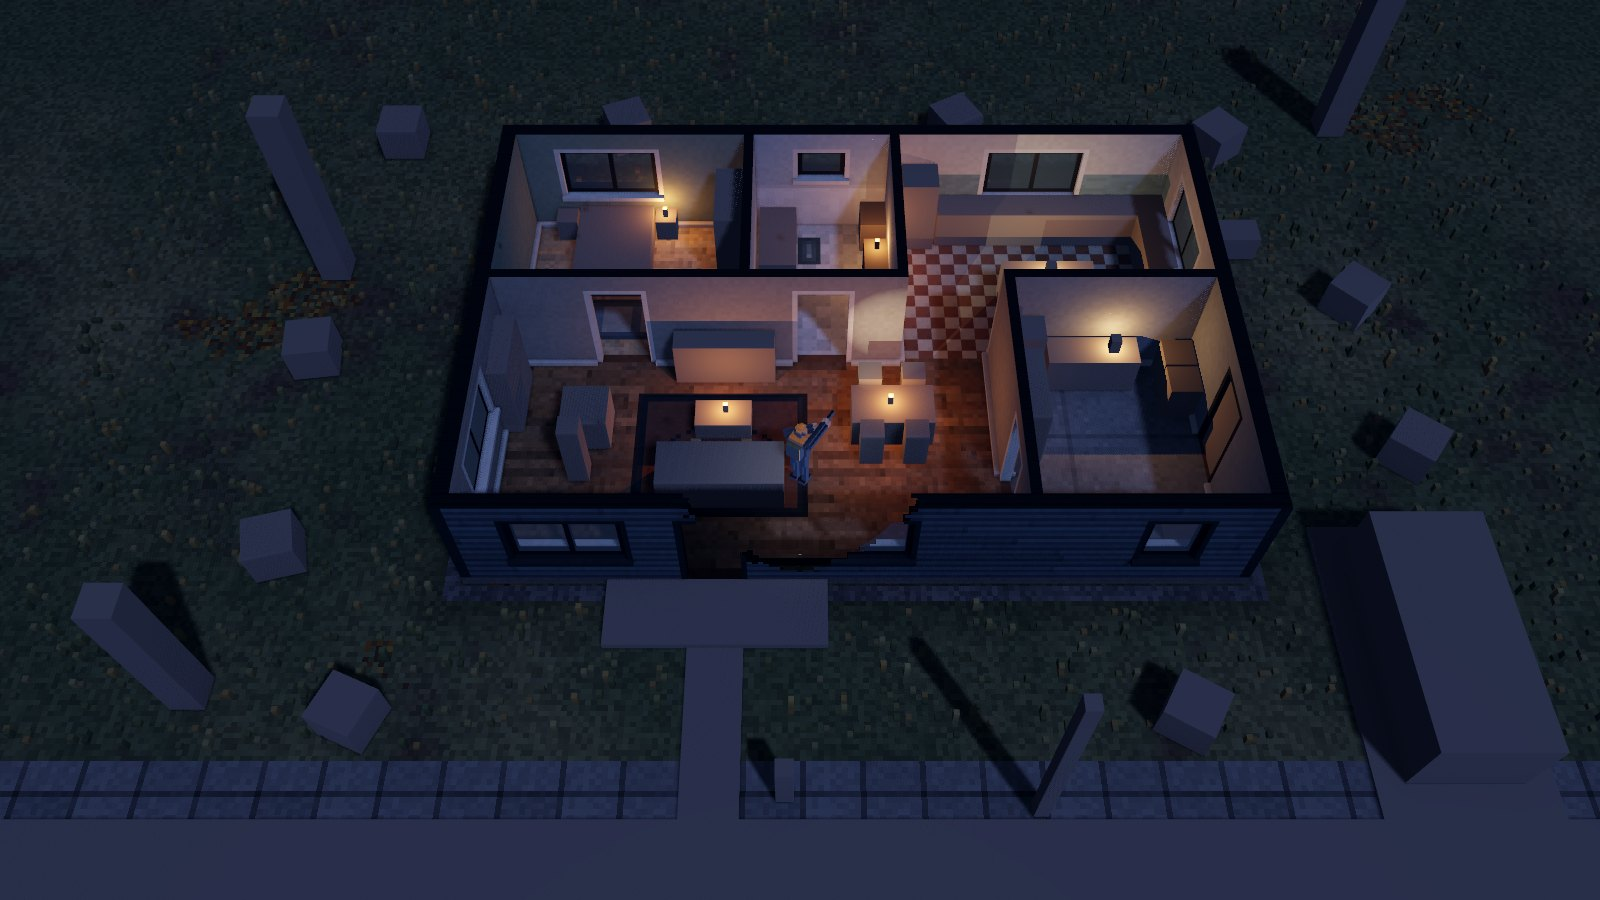
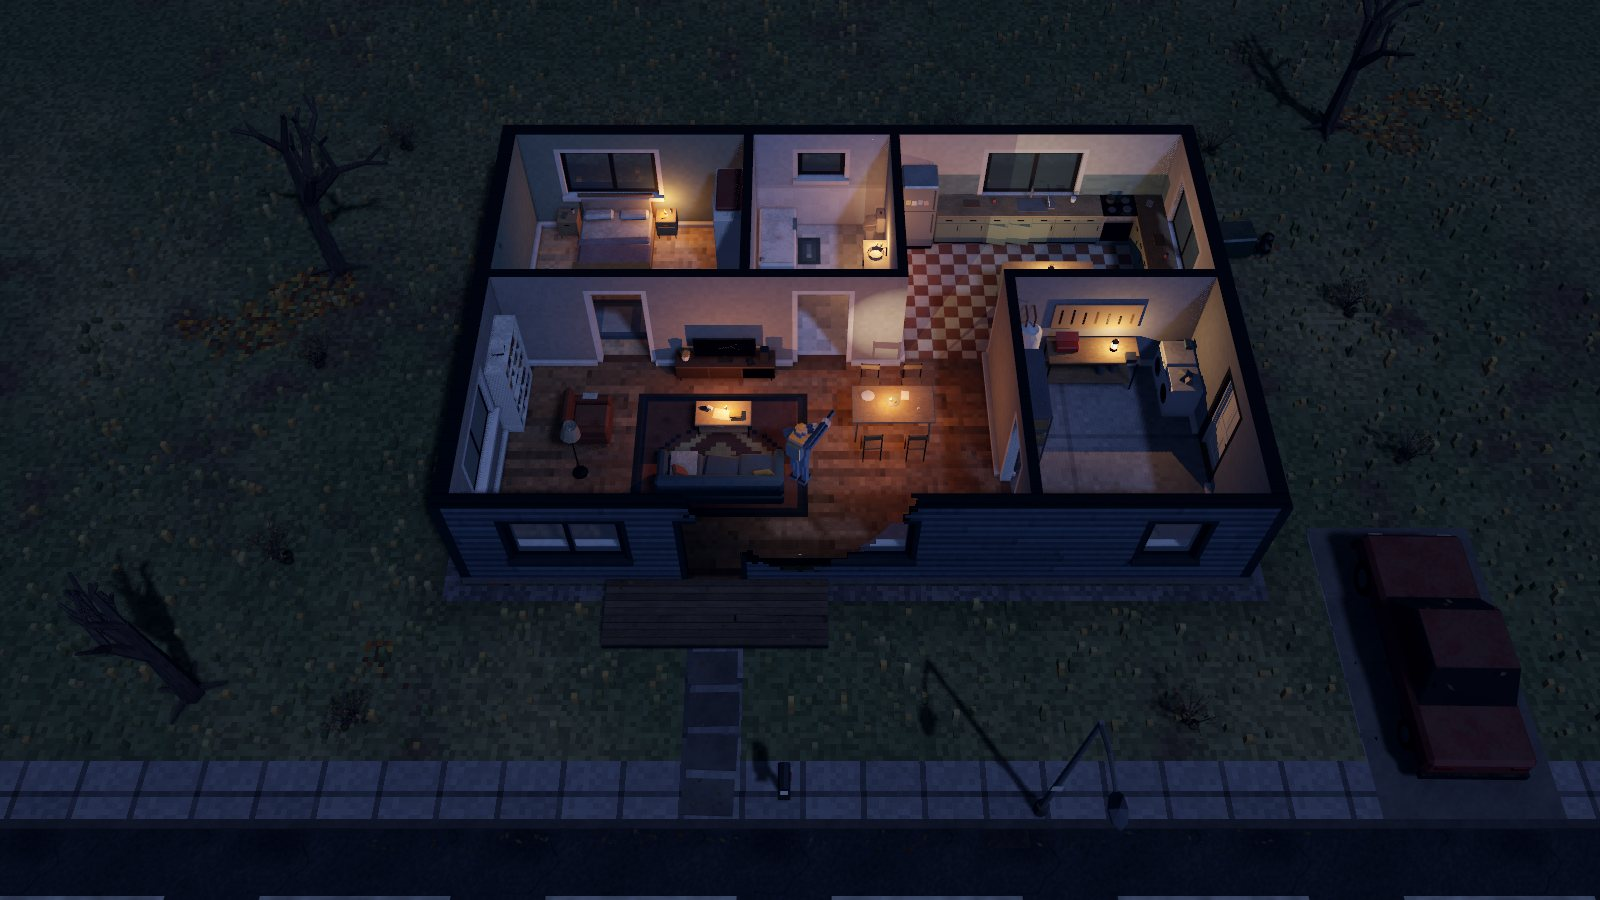
Experiment 002 delivered: report, integrated playtest results, screenshots
- REPORT.md: the loop, what each module provides, the 0.2 m study,
  tests, the 20-step playtest (23/23 across a real restart), an invasion
  breach capture, screenshots, limitations
- World screenshots recaptured with the real mesh props
- PROJECT_BRIEF: Experiment 002 delivered (Experiment 003 stays queued)

Tests: 241 passed, 0 failed, 0 skipped (headless suite).
Integrated playtest: part 1 16/16, part 2 7/7 (tools/survival_playtest.sh).

Claude-Session: https://claude.ai/code/session_01HoR6KDjNnKeBhyJgYyUCwz

diff --git a/docs/experiment-002/REPORT.md b/docs/experiment-002/REPORT.md
@@ -1,7 +1,5 @@
 # Experiment 002 — The First Days: report
 
-> **DRAFT:** the final integrated playtest is still running; its results and the screenshot list will replace the placeholders below.
-
 The Version A voxel showcase is now the first playable survival prototype of **Sirens Went Quiet**: one fragile wooden house on a lot ringed by fog. The loop is wake → assess needs → scavenge → return → build and prepare → survive the night → sleep → repeat. The three Experiment 001 demos remain under **Visual Experiments**.
 
 **How it was checked.**
@@ -63,13 +61,58 @@ True 0.2 m voxel storage would break the 0.3 m layered exterior walls, the align
 
 The debug API is used to read state, and to act only where input can't reasonably reach; every such use is printed as a note.
 
-*(pending: the final run is in progress)*
+**Final run (`tools/survival_playtest.sh`): 23 passed, 0 failed, 0 skipped, 2/2 parts completed.** Real renderer, 1600×900, software Vulkan.
+
+| # | The user's step | Result | What happened |
+|---|---|---|---|
+| 1–2 | Start a new game; wake on Day 1 | PASS | New Game from the main menu; intro (9.5 s); Day 1 07:00 beside the bed; initial save written |
+| 3 | Inspect food, water and inventory | PASS | I opened the panel: 3 canned + 2 snacks, 4 water, 9 rounds |
+| 4 | Move around the house and yard | PASS | WASD bedroom → living room → front door (opened with E) → yard |
+| 5 | Enter the surrounding fog | PASS | At the lot edge: "[E] Leave the property and head into the fog"; E opened the expedition screen |
+| 6–7 | Select a scavenging expedition; resolve an event | PASS | Nearby Homes, clicked through gear and confirm; "Dogs" event answered with key 1 (back away, +25 min) |
+| 8 | Return with usable resources | PASS | +2 canned food, +2 snacks, +2 water, +3 planks, +7 nails, a backpack; 170 min advanced exactly once; autosave |
+| 9 | Eat and drink | PASS | Inventory Use buttons: hunger 71 → 99, hydration 64 → 98 |
+| 10 | Build or repair | PASS | B, 2, LMB: a barricade in the front yard; "Barricade up."; 2 planks and 4 nails paid |
+| 11 | Advance time into night | PASS | Dev-menu buttons "Night 20:00", ×10, ×1 → 20:59 |
+| 12 | Sleep where safe | PASS | Walked to the bed, E, "Sleep until morning": 21:07 → Day 2 06:00, energy 21 → 99, autosave on waking |
+| 13 | Trigger and survive an invasion | PASS | Dev-menu "Next invasion": 3 psychos, killed with exactly the 9 starting rounds (mouse aim + LMB), health 100; "They're gone… for now"; autosave |
+| 14 | Observe structural damage | PASS* | *These three died before reaching the house, so the damage was made by 10 player shots into the south wall (472 voxels). A separate capture below shows an invasion breaking in by itself. |
+| 15 | Repair or rebuild | PASS | B, 7, LMB on the section: "Wall repaired: 472 voxels (4 planks, 8 nails)" → 0 missing |
+| 16 | Save the game | PASS | Three fresh shots left 214 missing voxels for part 2; Esc → Save; the save is valid |
+| 17 | Exit and restart the application | PASS | Main Menu → part 1 quits; part 2 is a **new process** |
+| 18 | Continue the saved game | PASS | Continue from the main menu: Day 2 21:43 |
+| 19 | Structural changes, supplies and survival state persist | PASS | Voxel hash identical; 214 missing voxels; the barricade and both doors in the same places; world data hash identical; inventory identical; stats and player position as saved |
+| 20 | Cheat controls and audio override fallback | PASS | Invulnerable (health stayed 100 with a psycho in reach for 4.2 s); unlimited resources (5 shots at 0 ammo, ammo stays 0); both switch off; a corrupt `custom/` override falls back to the template handgun sound |
+
+**Where input was helped (printed by the run):**
+- the invasion spawn gap was shortened to 3–5 s through the debug API, to keep the run short;
+- the unlimited cheat was switched on with its dev-menu button, twice, to have rounds for the wall-damage shots after the invasion used all nine.
+Everything else was real keys, mouse motion and clicks on the real buttons.
+
+**Invasion damage (separate capture, same build).** At night, the player stands invulnerable inside, the doors are closed, and nobody shoots. Within 30 game seconds the three psychos broke the front door ("The door gave way!"), bit 830 voxels out of the walls (including through the bathroom wall), and two of them came inside.
+
+**Test tooling note:**
+- Under software Vulkan, any HUD change made the engine redraw the whole 3D scene even with the render loop off (about 0.9 s per frame), so the first runs hit their time limits.
+- The playtest now hides the HUD between screenshots: 30 times faster, with the same results.
+- It doesn't affect the game on a GPU.
 
 ## Screenshots
 
 All are from the game camera, under software rendering.
 
-*(pending)*
+| | |
+|---|---|
+| ![](screenshots/g01_main_menu.jpg) Main menu | ![](screenshots/g02_wake_day1.jpg) Waking on Day 1 (hybrid house, HUD, bed prompt) |
+| ![](screenshots/g03_fog_boundary.jpg) The fog boundary and its prompt | ![](screenshots/g04_expedition_select.jpg) Expedition selection |
+| ![](screenshots/g05_expedition_event.jpg) An expedition event | ![](screenshots/g06_expedition_report.jpg) The return report |
+| ![](screenshots/g07_inventory.jpg) Inventory after eating and drinking | ![](screenshots/g08_build_mode.jpg) Construction mode (barricade ghost, palette) |
+| ![](screenshots/v_build_invalid.jpg) Refused: "That would seal the last way out." | ![](screenshots/v_built_pieces.jpg) Built wall run, door, barricade, crate, sheathing |
+| ![](screenshots/g09_night_yard.jpg) Night in the yard | ![](screenshots/v_house_night.jpg) Night inside: candles and lanterns |
+| ![](screenshots/g10_invasion.jpg) Invasion ("They're here") | ![](screenshots/g11_invasion_breach.jpg) An invasion breaking in: "The door gave way!" |
+| ![](screenshots/g12_wall_damaged.jpg) Damaged wall | ![](screenshots/g13_wall_repaired.jpg) Repaired in build mode |
+| ![](screenshots/g15_menu_continue.jpg) Continue in a new process | ![](screenshots/g16_continued.jpg) The continued run: same time, holes and barricade |
+
+The house by day and the 0.1 m vs 0.2 m damage comparison are in `world.md` and `VOXEL_RESOLUTION.md`.
 
 ## Known limitations
 

diff --git a/docs/experiment-002/world.md b/docs/experiment-002/world.md
@@ -98,7 +98,7 @@ CAPTURE_ENGINE_ARGS="--fixed-fps 10" LP_NUM_THREADS=1 tools/capture.sh res://src
 
 | | |
 |---|---|
-| ![](screenshots/v_house_day.jpg) House by day (furniture still the kit's placeholder boxes) | ![](screenshots/v_house_night.jpg) Night: candles and lanterns, no grid power |
+| ![](screenshots/v_house_day.jpg) House by day (voxel structure, mesh furniture) | ![](screenshots/v_house_night.jpg) Night: candles and lanterns, no grid power |
 | ![](screenshots/v_build_valid.jpg) A 6 m wall run, valid | ![](screenshots/v_build_invalid.jpg) A barricade that would seal the bedroom |
 | ![](screenshots/v_built_pieces.jpg) Built wall with a door, a barricade on the path, crate, collector, sheathed south wall | ![](screenshots/v_wall_damaged.jpg) / ![](screenshots/v_wall_repaired.jpg) Shot-up wall, then repaired (glass back) |
 

diff --git a/docs/PROJECT_BRIEF.md b/docs/PROJECT_BRIEF.md
@@ -52,7 +52,7 @@ This file **records** decisions and approvals; it never grants them. Only the us
 
 ## Current approved development objective
 
-**Status: Approved 2026-11-23, in progress.**
+**Status: Approved 2026-11-23. Delivered on the working branch 2026-11-24** (report: `docs/experiment-002/REPORT.md`; integrated playtest 23/23 across a real restart). Not merged.
 
 - **User approval (reference / summary):** User message of 2026-11-23, "Experiment 002 — The First Days: from visual experiment to playable survival prototype". One coordinated task with parallel specialist agents in isolated worktrees; the lead integrates and tests.
 - **Objective (one):** Turn the voxel showcase into the first playable survival prototype with one complete, minimal, persistent survival loop.
